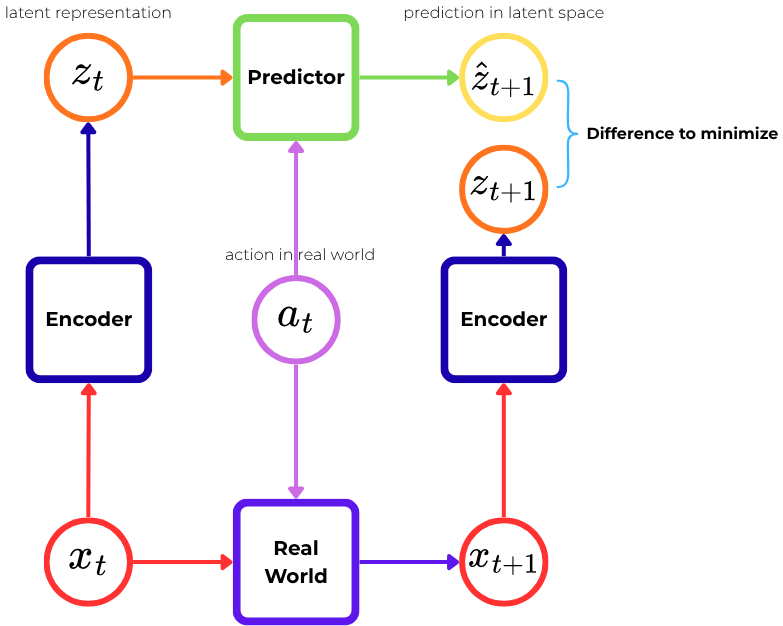
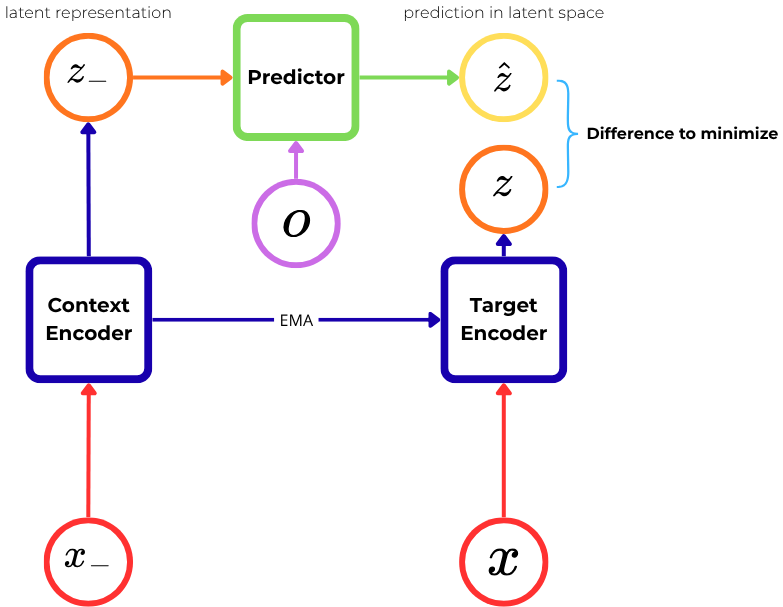
Updated some new images improving the notes

diff --git a/docs/notes.md b/docs/notes.md
@@ -181,6 +181,8 @@ Instead of generating pixels (like traditional generative world models), it mode
 * **The Encoder ($enc_\theta$):** Implemented as a Vision Transformer ($\text{ViT-Tiny}$ with ~5M parameters). It maps a raw pixel frame observation $o_t$ into a compact, low-dimensional latent embedding vector $z_t$.
 * **The Predictor ($pred_\phi$):** A causal transformer backend (~10M parameters). Given a history of past latent embeddings $z_t$ and an action vector $a_t$, it autoregressively predicts the subsequent latent state representation $\hat{z}_{t+1}$. Action conditioning is injected progressively via Adaptive Layer Normalization ($\text{AdaLN}$).
 
+![lewm-framework](imgs/LeWM.png)
+
 ### Loss
 
 Unlike typical JEPAs that depend on complex multi-term objectives or training heuristics (like Exponential Moving Averages (EMA) or `stop-gradient` updates), LeWM optimizes a straightforward **two-term objective** end-to-end: